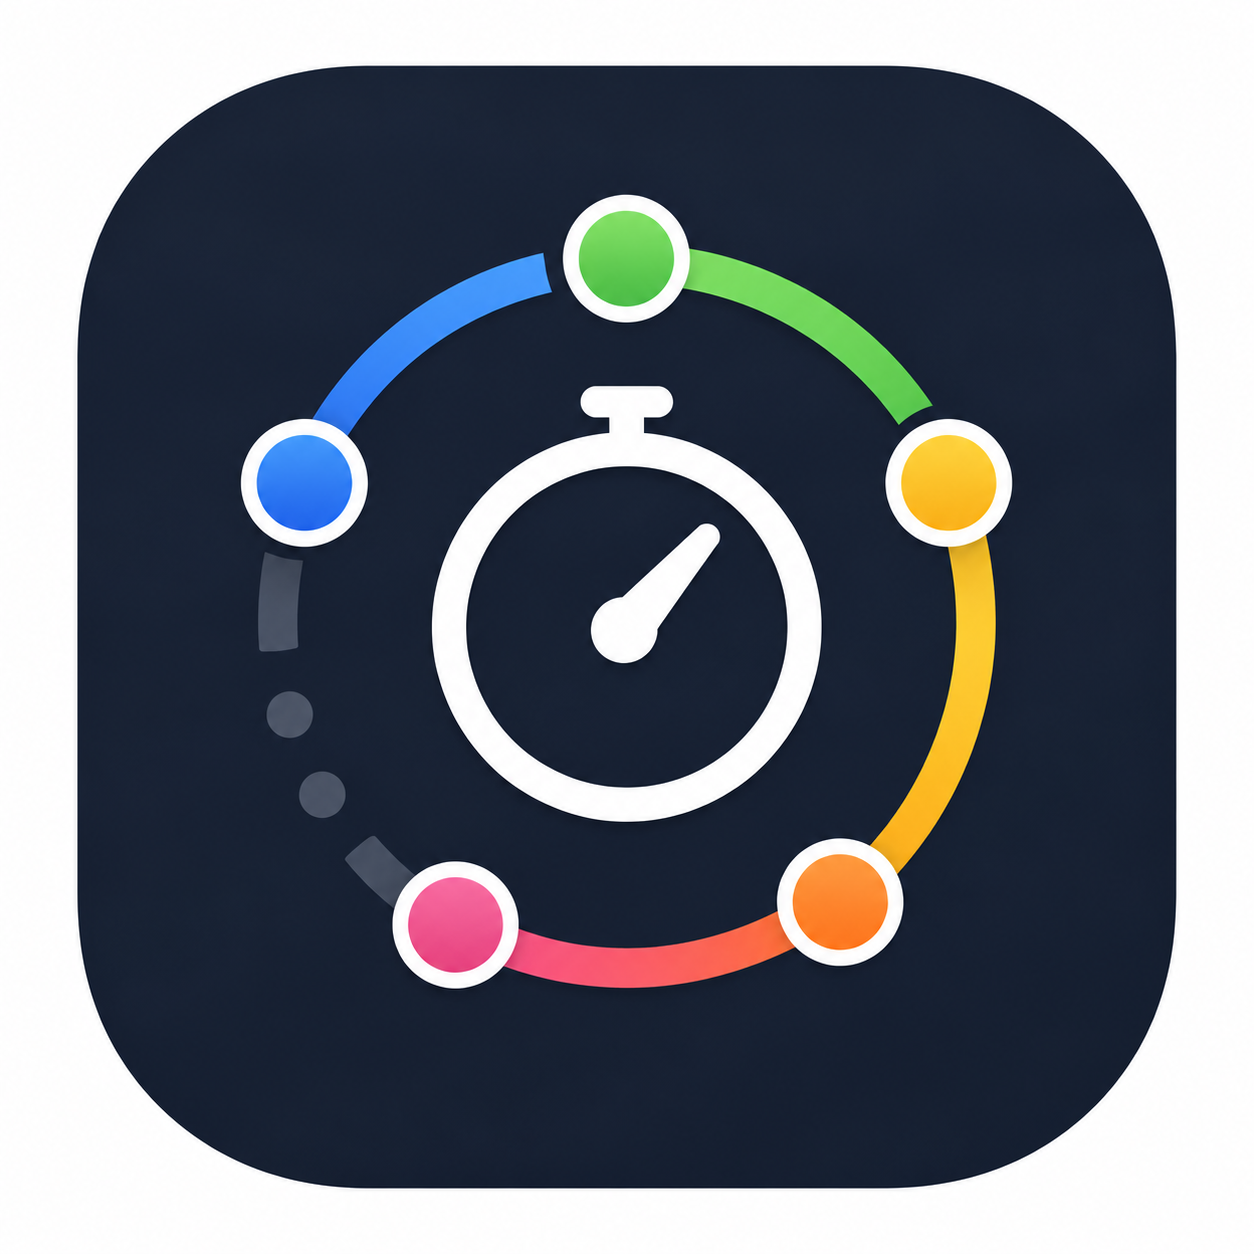
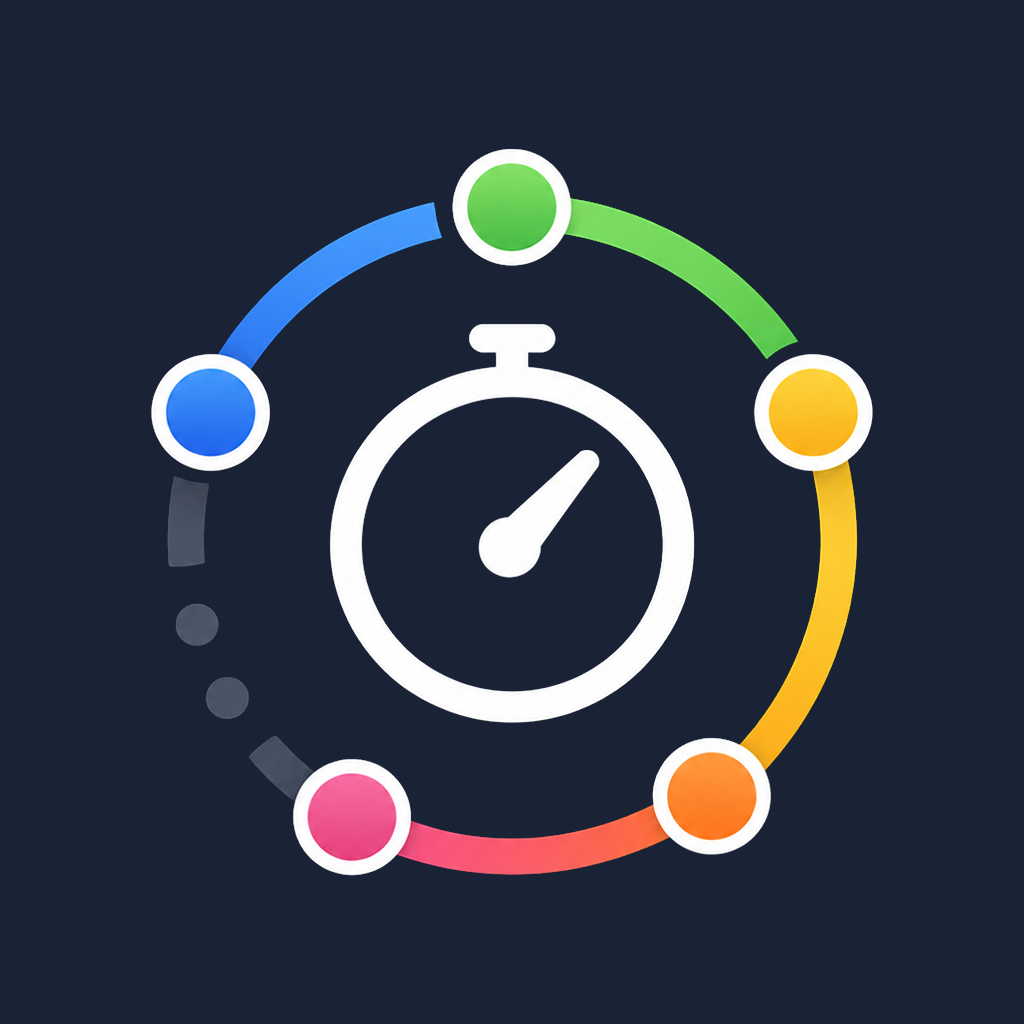
updated palettes

diff --git a/src/app.css b/src/app.css
@@ -1,75 +1,78 @@
+:root {
+  --font-text: "Roboto", "Google Sans", ui-sans-serif, system-ui, sans-serif;
+  --font-heading: "Roboto", "Google Sans", ui-sans-serif, system-ui, sans-serif;
+  --color-background-ghost: #ededf8;
+  --color-border: #323b321a;        /* has alpha */
+  --color-destructive: #e62b34;
+  --color-text-button-primary: #fff;
+  --color-text-button-ghost: #000;
+}
+
 :root,
+[data-palette="stock"] {
+  --color-background: #f6f6f6;
+  --color-text: #272727;
+  --color-text-muted: #808080;
+  --color-button: #6960f2;
+  --color-button-muted: #d7e1ff;
+  --color-box: #e8e8e8;
+  --color-arrow-inside: #fff;
+  --color-arrow: #6960f2;
+}
+
 [data-palette="forest"] {
-  --color-background: oklch(96.931% 0.01882 119.908);
-  --color-text: oklch(22% .04 120);
-  --color-text-muted: oklch(45% .04 120);
-  --color-button: oklch(65% .2 130);
-  --color-button-muted: oklch(88% .1 120);
-  --color-box: oklch(93% .03 120);
-  --color-arrow: oklch(65% .2 130);
+  --color-background: #f3f7e9;
+  --color-text: #181d06;
+  --color-text-muted: #525940;
+  --color-button: #64a500;
+  --color-button-muted: #cfe296;
+  --color-box: #e5ebd5;
+  --color-arrow: #64a500;
   --color-arrow-inside: #000;
 }
 
 [data-palette="ocean"] {
-  --color-background: oklch(0.97 0.015 230);
-  --color-text: oklch(22% .04 230);
-  --color-text-muted: oklch(45% .04 220);
-  --color-button: oklch(55% .18 240);
-  --color-button-muted: oklch(0.84 0.06 217.6);
-  --color-box: oklch(0.93 0.03 230);
-  --color-arrow: oklch(0.55 0.13 220);
+  --color-background: #ebf7fd;
+  --color-text: #031e29;
+  --color-text-muted: #3c5b65;
+  --color-button: #0079ce;
+  --color-button-muted: #9ed5e5;
+  --color-box: #d5ecf8;
+  --color-arrow: #0081a5;
   --color-arrow-inside: #fff;
 }
 
 [data-palette="rose"] {
-  --color-background: oklch(0.98 0.015 350);
-  --color-text: oklch(22% .04 10);
-  --color-text-muted: oklch(45% .04 10);
-  --color-button: oklch(65% .15 350);
-  --color-button-muted: oklch(0.9 0.05 350);
-  --color-box: oklch(0.94 0.03 350);
-  --color-arrow: oklch(0.65 0.15 350);
+  --color-background: #fff5fa;
+  --color-text: #2a1216;
+  --color-text-muted: #694c50;
+  --color-button: #d1649c;
+  --color-button-muted: #f9d1e3;
+  --color-box: #fce3ee;
+  --color-arrow: #d1649c;
   --color-arrow-inside: #fff;
 }
-/*
-[data-palette="slate"] {
-  --color-background: oklch(1 0 0);
-  --color-text: oklch(20% .01 260);
-  --color-text-muted: oklch(45% .01 260);
-  --color-button: oklch(0.64 0.08 259.68);
-  --color-button-muted: oklch(77.179% 0.05111 259.798);
-  --color-box: oklch(93% .008 250);
-  --color-arrow: oklch(0.86 0.04 260.41);
-}*/
+
+[data-palette="amber"] {
+  --color-background: #fffbf5;
+  --color-text: #2a1500;
+  --color-text-muted: #675136;
+  --color-button: #bca47d;
+  --color-button-muted: #fad8ab;
+  --color-box: #f4e6d2;
+  --color-arrow: #f1ba59;
+}
 
 [data-palette="slate"] {
   --color-background: #000;
   --color-text: #fff;
-  --color-text-muted: lab(74.0799% 1.60432 -22.1701);
-  --color-button: oklch(0.64 0.08 259.68);
-  --color-button-muted: lab(23.2336% .906661 -11.0479);
-  --color-box: lab(23.2336% .906661 -11.0479);
-  --color-arrow: lab(73.609% 7.02977 -36.308);
+  --color-text-muted: #a8b6df;
+  --color-button: #6f8dbd;
+  --color-button-muted: #374470;
+  --color-box: #323748;
+  --color-arrow: #a4b3f8;
   --color-arrow-inside: #000;
-  --color-secondary: #ccc;
-}
-
-[data-palette="amber"] {
-  --color-background: oklch(0.99 0.01 74.96);
-  --color-text: oklch(22% .05 65);
-  --color-text-muted: oklch(45% .05 70);
-  --color-button: oklch(0.73 0.06 79.84);
-  --color-button-muted: oklch(0.9 0.07 75.22);
-  --color-box: oklch(93% .03 75);
-  --color-arrow: oklch(0.82 0.13 79.08);
-}
-
-:root {
-  --font-text: "Roboto", "Google Sans", ui-sans-serif, system-ui, sans-serif;
-  --font-heading: "Roboto", "Google Sans", ui-sans-serif, system-ui, sans-serif;
-  --color-secondary: rgb(237, 237, 248);
-  --color-border: oklch(34% .018 145/.1);
-  --color-destructive: oklch(0.6 0.22 25);
+  --color-background-ghost: #e8e8e8;
 }
 
 * {
@@ -217,7 +220,7 @@ button {
 
 button.primary, button.round.primary {
   background: var(--color-button);
-  color: #fff;
+  color: var(--color-text-button-primary);
 }
 
 button.primary.muted {
@@ -235,8 +238,9 @@ button.arrow {
 }
 
 button.ghost {
-  background: var(--color-secondary);
+  background: var(--color-background-ghost);
   border: 1px solid var(--color-border);
+  color: var(--color-text-button-ghost);
 }
 
 button.danger {
@@ -264,7 +268,7 @@ button.icon.small {
 }
 
 button.icon.ghost {
-  background-color: var(--color-secondary);
+  background-color: var(--color-background-ghost);
 }
 
 button.icon.danger {

diff --git a/src/routes/sequence/[id]/+page.svelte b/src/routes/sequence/[id]/+page.svelte
@@ -164,6 +164,7 @@
   }
 
   function startDrag(id) {
+    buzz();
     draggingId = id;
   }
 
@@ -201,7 +202,7 @@
 <div class="container" in:fade>
 
   <header>
-    <a href="/" class="back" aria-label="Back">
+    <a href="/" class="back" aria-label="Back" onclick={buzz}>
       <svg fill="none" stroke="currentColor" viewBox="0 0 24 24" aria-hidden="true"><path stroke-linecap="round" stroke-linejoin="round" stroke-width="2.5" d="M15 19l-7-7 7-7"></path></svg>
     </a>
   </header>
@@ -240,7 +241,7 @@
   {/if}
   
   {#if sequence.timers.length}
-    <div class="timers" use:dndzone={{ items: sequence.timers, dragDisabled: !!activeTimer, flipDurationMs: 200, dropTargetStyle: {} }} onconsider={handleConsider} onfinalize={handleFinalize}>
+    <div class="timers" class:running={activeTimer} use:dndzone={{ items: sequence.timers, dragDisabled: !!activeTimer, flipDurationMs: 200, dropTargetStyle: {} }} onconsider={handleConsider} onfinalize={handleFinalize}>
       {#each sequence.timers as timer, i (timer.id)}
         <div class="timer" class:is-dragging={draggingId === timer.id} class:upcoming={activeTimer && i > activeIndex} class:current={activeIndex === i} class:completed={completedIndices.has(i)} use:longPressEnable={{ disabled: !!activeTimer, delay: 200, onLongPress: () => startDrag(timer.id), onRelease: () => { draggingId = null; }, onClick: () => {if (!activeTimer) {editedTimer = timer; editingTimer = true;}} }}>
           {#if draggingId === timer.id}
@@ -470,9 +471,13 @@
     transition: background-color 0.3s ease, padding 0.3s ease, opacity 0.4s ease;
   }
 
-  .timer:active {
+  .timers:not(.running) .timer:active {
     transform: scale(0.97);
     background-color: var(--color-button-muted);
+  }
+
+  .timers.running .timer {
+    cursor: default;
   }
 
   .timer.is-dragging {
@@ -500,6 +505,7 @@
 
   .timer.current .timer-number {
     background: var(--color-button);
+    color: var(--color-arrow-inside);
     transform: scale(1.2);
   }
 

diff --git a/src/lib/stores/palette.js b/src/lib/stores/palette.js
@@ -2,6 +2,11 @@ import { browser } from '$app/environment';
 import { writable } from 'svelte/store';
 
 const PALETTES = {
+  stock: {
+    label: 'Stock Blue',
+    bgColor: 'oklch(1 0 0)',
+    swatches: ['#6960f2', '#dcd7ff', '#e8e8e8', '#ada2f7']
+  },
   forest: {
     label: 'Forest Green',
     bgColor: 'oklch(96.931% 0.01882 119.908)',
@@ -28,7 +33,7 @@ const PALETTES = {
     swatches: ['#000', 'lab(23.2336% .906661 -11.0479)', 'lab(73.609% 7.02977 -36.308)', 'oklch(0.53 0.08 253.76)']
   },
 }
-const stored = browser ? localStorage.getItem('palette') ?? 'forest' : 'forest';
+const stored = browser ? localStorage.getItem('palette') ?? 'stock' : 'stock';
 
 export const palette = writable(stored);
 export { PALETTES };

diff --git a/src/lib/SlideWheel.svelte b/src/lib/SlideWheel.svelte
@@ -57,7 +57,7 @@
     top: 50%;
     transform: translateY(-50%);
     height: 44px;
-    background: var(--color-secondary);
+    background: var(--color-background-ghost);
     border-radius: 0.5rem;
     pointer-events: none;
   }

diff --git a/src/lib/TimerEditor.svelte b/src/lib/TimerEditor.svelte
@@ -75,7 +75,7 @@
   .editor select {
     padding: 0.375rem 0.5rem;
     border-radius: 0.5rem;
-    background: var(--color-secondary);
+    background: var(--color-background-ghost);
     border: 1px solid var(--color-border);
     font-size: 0.75rem;
     font-weight: 500;

diff --git a/src/routes/+page.svelte b/src/routes/+page.svelte
@@ -160,7 +160,7 @@
 
   .sequence:active {
     transform: scale(0.97);
-    background-color: var(--color-button-muted);
+    background-color: color-mix(in oklab, var(--color-button) 30%, white);
   }
 
   .sequence-arrow {